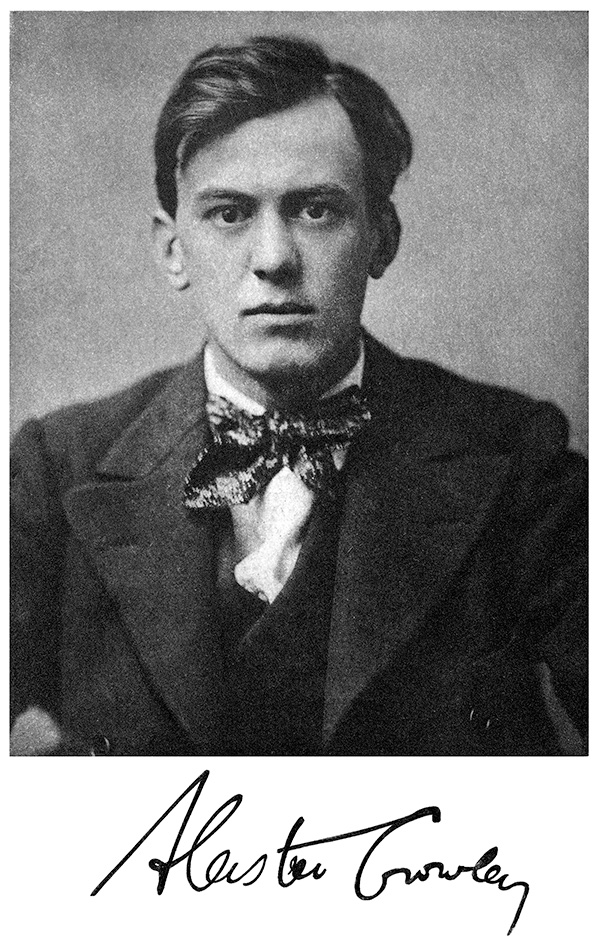
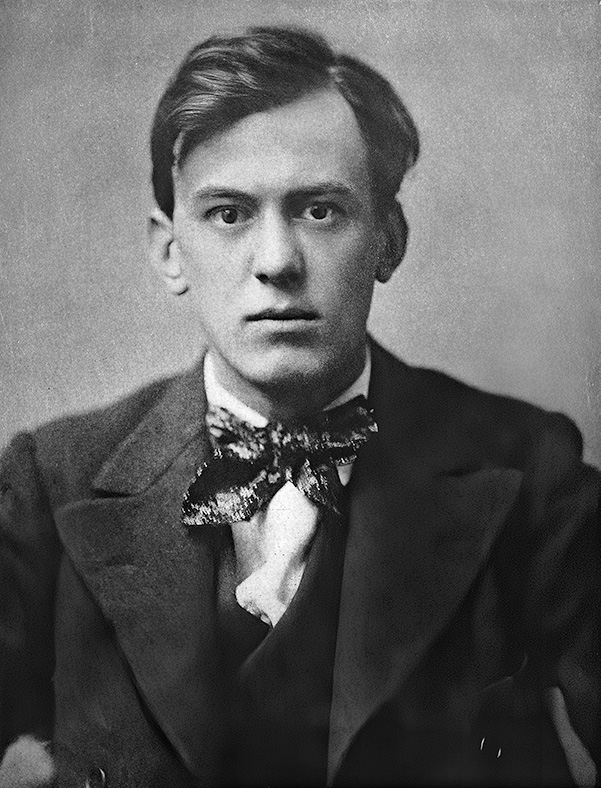
minor changes, extra pictures

diff --git a/make-pdfs.js b/make-pdfs.js
@@ -45,8 +45,8 @@ data.books.forEach(book => {
 
         //if (!item.hasOwnProperty('filename')) return;
         //if (!(item.title.indexOf('Elemental Weapons') > -1 || item.title.indexOf('COVER AND TITLE PAGE') > -1)) return;
-        //if (item.pageStart > 200 || !item.hasOwnProperty('pageStart')) return;
-        if (item.prefix !== 'p') return;
+        if (!(item.pageStart === 331 || item.title === 'Lamen of the Master Therion')) return;
+        //if (item.prefix !== 'p') return;
 
         // compile images
         let images = [];

diff --git a/books/magick.js b/books/magick.js
@@ -51,7 +51,7 @@ exports.data = {
         },
         {
             title: 'Lamen of the Master Therion',
-            addPage: [{filename: '_lamen.png'}],
+            addPage: [{filename: '_lamen.jpg'}],
             pageInfo: 'Lamen of the Master Therion'
         },
         // section 1
@@ -138,7 +138,7 @@ exports.data = {
             grade: 6
         },
         {
-            title: 'LIBER V vel REGULAI',
+            title: 'LIBER V vel REGULI',
             pageStart: 331,
             pageEnd: 344,
             pub: 'aa',

diff --git a/books/book4.2.js b/books/book4.2.js
@@ -7,7 +7,8 @@ exports.data = {
     folder: 'book4/2',
     creditFilename: 'credits-bookiv.pdf',
     images: [
-        'cover-book4-2.jpg'
+        'cover-book4-2.jpg',
+        'crowley-magician.jpg'
     ],
     links: [
         {text: 'info', url: 'https://www.100thmonkeypress.com/biblio/acrowley/books/book_4_part_2_1913/book_4_part_2_1913.htm'}

diff --git a/books/book4.1.js b/books/book4.1.js
@@ -7,7 +7,8 @@ exports.data = {
     folder: 'book4/1',
     creditFilename: 'credits-bookiv.pdf',
     images: [
-        'cover-book4-1.jpg'
+        'cover-book4-1.jpg',
+        'crowley-pond.jpg'
     ],
     links: [
         {text: 'info', url: 'https://www.100thmonkeypress.com/biblio/acrowley/books/book_4_part_1_1911/book_4_part_1_1911.htm'}

diff --git a/books/eq3.01.js b/books/eq3.01.js
@@ -159,7 +159,7 @@ exports.data = {
             pageStart: 207,
             pageEnd: 224,
             pub: 'oto',
-            number: 110,
+            number: 101,
             subtitle: 'An open Letter to those who may wish to join the Order'
         },
         {
